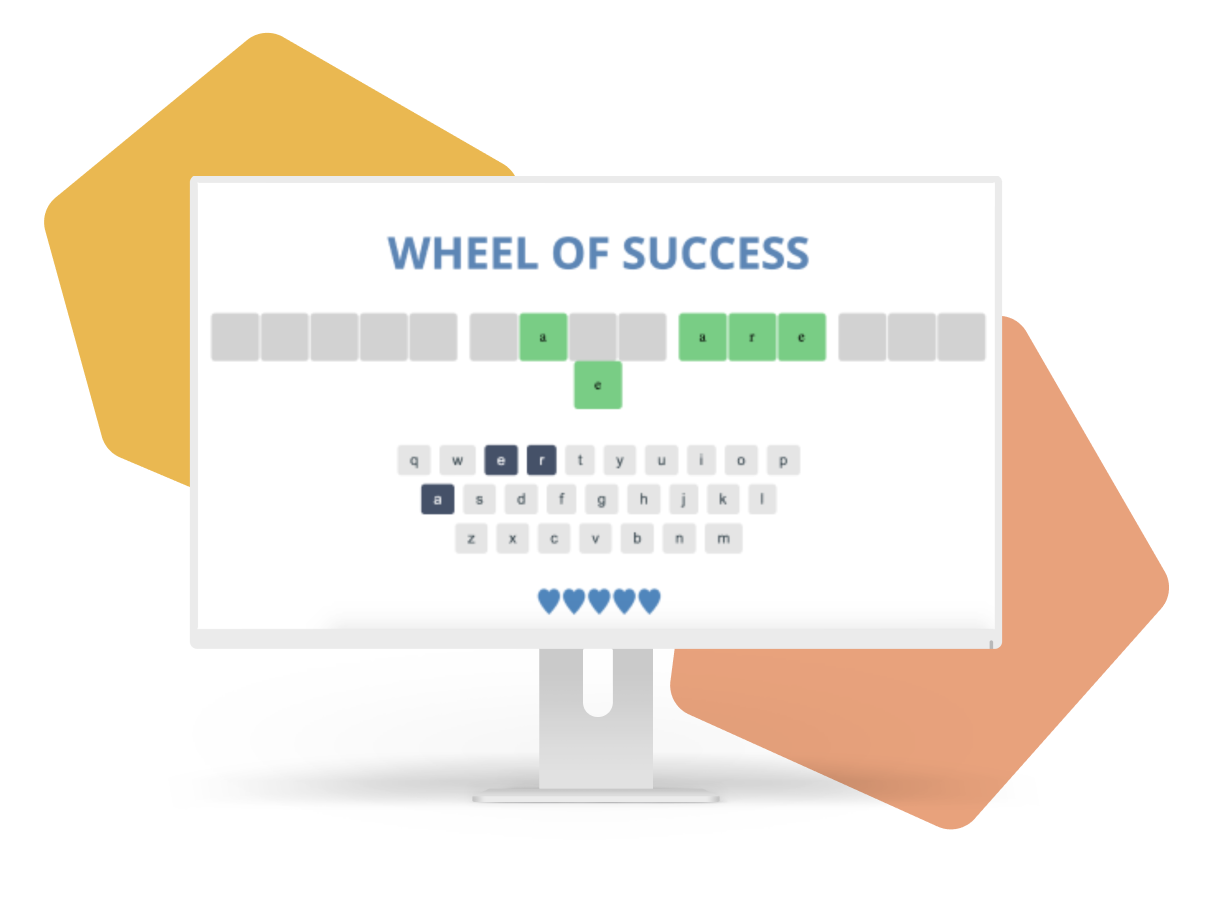
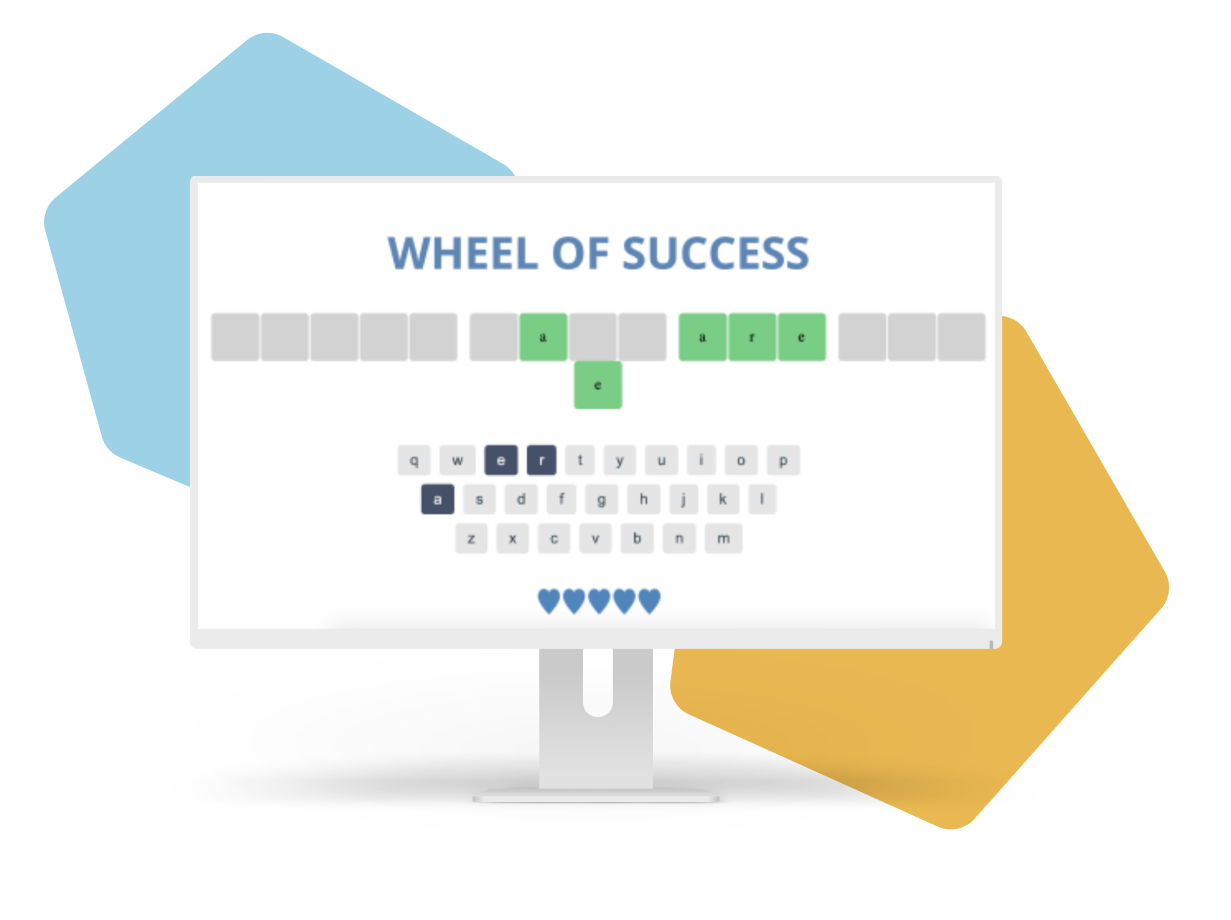
colour changes on projects (cards and pages)

Changed region(s): [[0.5248, 0.3348, 0.9569, 0.913], [0.0309, 0.0304, 0.4322, 0.5478]]

diff --git a/public/project-api.html b/public/project-api.html
@@ -36,10 +36,10 @@
         </div>
       </div>
       <div class="top-triangles">
-        <div class="right-triangle__purple"></div>
-        <div class="left-triangle__purple"></div>
+        <div class="right-triangle__pink"></div>
+        <div class="left-triangle__pink"></div>
       </div>
-      <div class="project-page-description__purple">
+      <div class="project-page-description__pink">
         <div class="project-page-description__content">
           <div>
             <h3>Projektet</h3>
@@ -57,14 +57,14 @@
           </div>
         </div>
       </div>
-      <div class="down-triangle__purple"></div>
+      <div class="down-triangle__pink"></div>
       <div class="project-page-section">
         <h3>Testa projektet live</h3>
         <div class="frontend-project-buttons-container">
           <div>
             <p>Ladda om sidan för att se 12 nya anställda visas upp.</p>
             <a
-              class="large-button__purple"
+              class="large-button__pink"
               href="https://api-directory-cd3cb.web.app/"
               target="_blank"
             >
@@ -74,7 +74,7 @@
           <div>
             <p>Du får gärna kolla på projektets kod också.</p>
             <a
-              class="large-button__pink"
+              class="large-button__blue"
               href="https://github.com/alicelandroe/API-directory-student-project"
               target="_blank"
             >
@@ -85,7 +85,7 @@
       </div>
     </div>
     <a
-      class="next-page-box next-page-box__pink"
+      class="next-page-box next-page-box__blue"
       href="project-wheel-of-success.html"
     >
       <span>nästa project</span>

diff --git a/public/project-wheel-of-success.html b/public/project-wheel-of-success.html
@@ -36,10 +36,10 @@
         </div>
       </div>
       <div class="top-triangles">
-        <div class="right-triangle__peach"></div>
-        <div class="left-triangle__peach"></div>
+        <div class="right-triangle__blue"></div>
+        <div class="left-triangle__blue"></div>
       </div>
-      <div class="project-page-description__peach">
+      <div class="project-page-description__blue">
         <div class="project-page-description__content">
           <div>
             <h3>Projektet</h3>
@@ -56,14 +56,14 @@
           </div>
         </div>
       </div>
-      <div class="down-triangle__peach"></div>
+      <div class="down-triangle__blue"></div>
       <div class="project-page-section">
         <h3>Testa projektet live</h3>
         <div class="frontend-project-buttons-container">
           <div>
             <p>Projektet fungerar bara på större skärmstorlekar.</p>
             <a
-              class="large-button__peach"
+              class="large-button__blue"
               href="https://wheel-of-success-6577a.web.app/"
               target="_blank"
             >
@@ -83,9 +83,9 @@
         </div>
       </div>
     </div>
-    <a class="next-page-box__orange" href="project-werkstad.html">
+    <a class="next-page-box__peach" href="project-treddy.html">
       <span>nästa project</span>
-      <span>Werkstad</span>
+      <span>Treddy</span>
     </a>
   </body>
   <script src="index.js"></script>

diff --git a/public/project-web-app.html b/public/project-web-app.html
@@ -36,10 +36,10 @@
         </div>
       </div>
       <div class="top-triangles">
-        <div class="right-triangle__pink"></div>
-        <div class="left-triangle__pink"></div>
+        <div class="right-triangle__purple"></div>
+        <div class="left-triangle__purple"></div>
       </div>
-      <div class="project-page-description__pink">
+      <div class="project-page-description__purple">
         <div class="project-page-description__content">
           <div>
             <h3>Projektet</h3>
@@ -54,7 +54,7 @@
           </div>
         </div>
       </div>
-      <div class="down-triangle__pink"></div>
+      <div class="down-triangle__purple"></div>
 
       <div class="project-page-section">
         <h3>Testa projektet live</h3>
@@ -62,7 +62,7 @@
           <div>
             <p>Vissa knappar går att klicka på, testa och se :)</p>
             <a
-              class="large-button__pink"
+              class="large-button__purple"
               href="https://web-app-bb3f1.web.app/"
               target="_blank"
             >
@@ -82,7 +82,7 @@
         </div>
       </div>
     </div>
-    <a class="next-page-box__green" href="project-api.html">
+    <a class="next-page-box__pink" href="project-api.html">
       <span>nästa project</span>
       <span>Anställdskatalogen</span>
     </a>

diff --git a/app/index.ts b/app/index.ts
@@ -129,7 +129,7 @@ const uxProjectsSpecifications = [
 
 const frontendProjectsSpecifications = [
   {
-    color: "blue",
+    color: "purple",
     link: "project-web-app.html",
     title: "Web Dashboard",
     description: "Responsiva JavaScript diagram", // ALICE: Add description
@@ -137,7 +137,7 @@ const frontendProjectsSpecifications = [
     imageAlt: "Web App Dashboard",
   },
   {
-    color: "purple",
+    color: "pink",
     link: "project-api.html",
     title: "Anställdskatalog",
     description: "med API, CSS, HTML och JavaScript", // ALICE: Add description
@@ -153,7 +153,7 @@ const frontendProjectsSpecifications = [
   //     imageAlt: "Interaktivt fotogalleri"
   // },
   {
-    color: "peach",
+    color: "blue",
     link: "project-wheel-of-success.html",
     title: "Wheel of Success",
     description: "Ett ordgissningsspel", // ALICE: Add description

diff --git a/public/project-werkstad.html b/public/project-werkstad.html
@@ -347,7 +347,7 @@
       </div>
     </div>
 
-    <a class="next-page-box__pink" href="project-web-app.html">
+    <a class="next-page-box__purple" href="project-web-app.html">
       <span>nästa project</span>
       <span>Web dashboard</span>
     </a>
